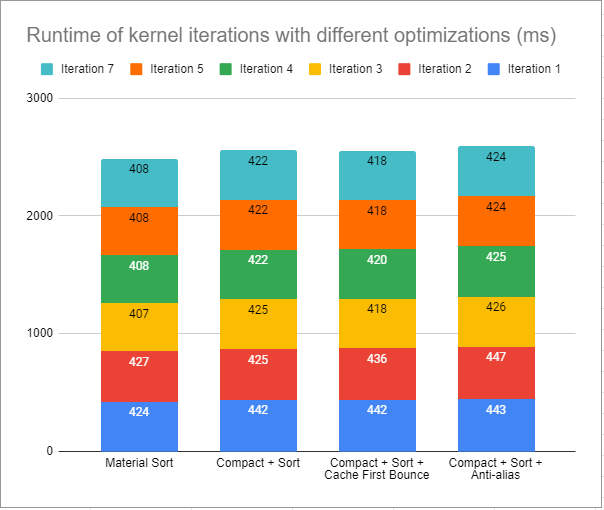
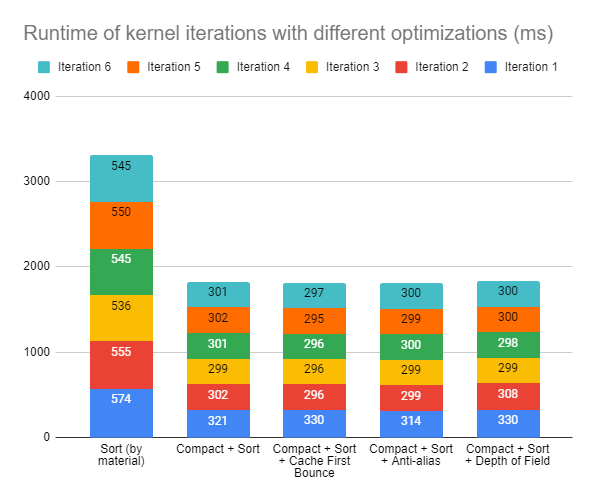
base requirements complete. updated readme.

diff --git a/src/intersections.h b/src/intersections.h
@@ -8,7 +8,7 @@
 #include "utilities.h"
 #include "cu.h"
 
-#define BOUNDING_BOX 0
+#define BOUNDING_BOX 1
 
 /* Handy-dandy hash function that provides seeds for random number generation. */
 __host__ __device__ inline unsigned int hash(unsigned int a)
@@ -48,7 +48,7 @@ __host__ __device__ float triangle_intersection_test(const Triangle tri, const R
 	if (!glm::intersectRayTriangle(r.origin, r.direction, tri.v[0], tri.v[1], tri.v[2], b_coord))
 		return -1.0f; /* no collision */
 	
-	*normal = glm::normalize(glm::cross(tri.v[2]-tri.v[0], tri.v[1]-tri.v[0]));
+	*normal = -glm::normalize(glm::cross(tri.v[2]-tri.v[0], tri.v[1]-tri.v[0]));
 	
 	*intersect = getPointOnRay(r, b_coord.z);
 	return b_coord.z;
@@ -74,27 +74,38 @@ __host__ __device__ float meshIntersectionTest(Geom mesh, Ray r,
 
 	glm::vec3 tmp_intersect;
 	glm::vec3 tmp_normal;
-	bool hit = false;
 
 
 #if BOUNDING_BOX
 	/* do box-intersection with bounding boxes */
-	printf("mincoords: (%f, %f, %f)\tmaxcoords: (%f, %f, %f)\n",
-		mesh.mincoords.x, mesh.mincoords.y, mesh.mincoords.z,
-		mesh.maxcoords.x, mesh.maxcoords.y, mesh.maxcoords.z);
 
 	glm::vec3 d = glm::normalize(r.direction);
-	auto max_of_mins = max(0.f,
-		(mesh.mincoords.x - r.origin.x) / d.x,
-		(mesh.mincoords.y - r.origin.y) / d.y,
-		(mesh.mincoords.z - r.origin.z) / d.z);
-	auto min_of_maxes = min(
-		(mesh.maxcoords.x - r.origin.x) / d.x,
-		(mesh.maxcoords.y - r.origin.y) / d.y,
-		(mesh.maxcoords.z - r.origin.z) / d.z);
+
+
+	glm::vec3 mincoords = glm::vec3(
+		d.x < 0 ? mesh.maxcoords.x : mesh.mincoords.x,
+		d.y < 0 ? mesh.maxcoords.y : mesh.mincoords.y,
+		d.z < 0 ? mesh.maxcoords.z : mesh.mincoords.z
+	);
+	glm::vec3 maxcoords = glm::vec3(
+		d.x >= 0 ? mesh.maxcoords.x : mesh.mincoords.x,
+		d.y >= 0 ? mesh.maxcoords.y : mesh.mincoords.y,
+		d.z >= 0 ? mesh.maxcoords.z : mesh.mincoords.z
+	);
+
+	float max_of_mins = max(0.f,
+		(mincoords.x - r.origin.x) / d.x,
+		(mincoords.y - r.origin.y) / d.y,
+		(mincoords.z - r.origin.z) / d.z);
+	float min_of_maxes = min(
+		(maxcoords.x - r.origin.x) / d.x,
+		(maxcoords.y - r.origin.y) / d.y,
+		(maxcoords.z - r.origin.z) / d.z);
 	
-	if (min_of_maxes < max_of_mins)
+	
+	if (min_of_maxes < max_of_mins) {
 		return -1.0f;
+	}
 #endif
 
 	for (size_t i = mesh.triangle_start; i < mesh.triangle_start + mesh.triangle_n; i++) {
@@ -104,19 +115,14 @@ __host__ __device__ float meshIntersectionTest(Geom mesh, Ray r,
 			t_min = t;
 			tri_intersect_point = tmp_intersect;
 			tri_normal = tmp_normal;
-			//printf("triangle %lld is closer\n", i);
-			hit = true;
 		}
 
 	}
 
-	if (t_min > 0.0f && hit) {
+	if (t_min < FLT_MAX) {
 		*intersectionPoint = tri_intersect_point;
-	//	*normal = glm::normalize(multiplyMV(mesh.invTranspose, glm::vec4(tri_normal, 1.0f)));
 		*normal = tri_normal;
 		*outside = glm::dot(r.direction, *normal) < 0;
-	//printf("normal: (%f, %f, %f) (%f, %f, %f) %d\n", normal->x, normal->y, normal->z, r.direction.x, r.direction.y, r.direction.z, int(*outside));
-	//printf("intersect = (%f, %f, %f)\n", intersectionPoint->x, intersectionPoint->y, intersectionPoint->z);
 		return t_min;
 	}
 

diff --git a/src/scene.cpp b/src/scene.cpp
@@ -72,30 +72,20 @@ int Scene::load_obj(string inputfile, glm::vec3 &mincoords, glm::vec3 &maxcoords
 
 	int size = tris.size();
 	
-	for (int i = 0; i < vertices.size(); i++) {
-		printf("vertices[%d]: %f\n", i, vertices[i]);
-	}
-
 	/* an obj file can contain multiple shapes; iterate over them: */
 	for (auto &s : shapes) {
 		size_t index_offset = 0;
 		auto &mesh = s.mesh;
 		auto &indices = mesh.indices;
 
-		printf("shape\n");
-
 		/* iterate over faces of the mesh (specifically the #vertices in each face */
 		for (unsigned char fv : mesh.num_face_vertices) {
-			printf("face %d\n", fv);
 			auto idx = indices[index_offset];
 
 
 			vec3 shape_first_point = { vertices[3 * idx.vertex_index + 0],
 				vertices[3 * idx.vertex_index + 1],
 				vertices[3 * idx.vertex_index + 2] };
-
-			printf("first point: (%f, %f, %f)\n", shape_first_point.x, shape_first_point.y, shape_first_point.z);
-			printf("idx: %d\n", idx.vertex_index);
 
 			/* iterate over vertices of each face */
 			for (unsigned char v = 1; v < fv; v += 2) {
@@ -111,33 +101,10 @@ int Scene::load_obj(string inputfile, glm::vec3 &mincoords, glm::vec3 &maxcoords
 						vertices[3 * idx2.vertex_index + 1],
 						vertices[3 * idx2.vertex_index + 2]),
 				});
-				printf("idx1: %d\n", idx1.vertex_index);
-				printf("idx2: %d\n", idx2.vertex_index);
-				printf("added triangle\n");
 			}
 			index_offset += fv;
 		}
 	}
-	//for (int i = size; i < tris.size(); i++) {
-	//	Triangle &tri = tris[i];
-	//	for (vec3 v : tri.v) {
-	//		mincoords.x = glm::min(mincoords.x, v.x);
-	//		mincoords.y = glm::min(mincoords.y, v.y);
-	//		mincoords.z = glm::min(mincoords.z, v.z);
-	//		maxcoords.x = glm::max(maxcoords.x, v.x);
-	//		maxcoords.y = glm::max(maxcoords.y, v.y);
-	//		maxcoords.z = glm::max(maxcoords.z, v.z);
-	//		printf("added (%f, %f, %f)\n", v.x, v.y, v.z);
-	//	}
-	//}
-	//for (int i = 0; i + 2 < vertices.size(); i += 3) { /* for bounding box */
-	//	mincoords.x = glm::min(mincoords.x, vertices[i]);
-	//	mincoords.y = glm::min(mincoords.y, vertices[i+1]);
-	//	mincoords.z = glm::min(mincoords.z, vertices[i+2]);
-	//	maxcoords.x = glm::max(maxcoords.x, vertices[i]);
-	//	maxcoords.y = glm::max(maxcoords.y, vertices[i+1]);
-	//	maxcoords.z = glm::max(maxcoords.z, vertices[i+2]);
-	//}
 	return tris.size() - size;
 }
 
@@ -276,7 +243,6 @@ int Scene::loadCamera()
 		} else if (tokens[0] == "LENS_RAD") {
 			camera.lens_radius = stof(tokens[1]);
 		}
-		printf("focus_len %f\trad %f\n", camera.focus_len, camera.lens_radius);
 
 		safe_getline(fp_in, line);
 	}

diff --git a/src/cu.h b/src/cu.h
@@ -47,7 +47,7 @@ __host__ __device__ T min(T v) {
 
 template <typename T, typename... U>
 __host__ __device__ T min(T v1, T v2, U ... vs) {
-	return max(v1 < v2 ? v1 : v2, vs...);
+	return min(v1 < v2 ? v1 : v2, vs...);
 }
 
 

diff --git a/README.md b/README.md
@@ -90,8 +90,7 @@ The difference is especially noticeable on the top edge of the ideal diffused su
 where the antialiased version is much smoother. It is also visible in the edges of the cornell box.
 
 There is a small performance penalty associated with stochastic sampled antialiasing, which is unsurprising as the
-sampling requires the generation of random numbers per pixel for each iteration. Specifically, with 10 iterations, the
-difference is 2219 milliseconds versus 2100 milliseconds without anti-aliasing (with material sort enabled)
+sampling requires the generation of random numbers per pixel for each iteration. Specifically, with 1000 iterations, the runtime is 39979 milliseconds without antialiasing versus 40006 milliseconds with anti-aliasing, a 0.07% increaase.
 
 Compared to a hypothetical CPU implementation, stochastic anti-aliasing would likely greatly benefit from being
 implemented on the GPU since there is clear pixel-level parallelism, where each pixel (with relative independence)
@@ -112,7 +111,7 @@ The focal length and lens radius can be dynamically changed by pressing **up-dow
 
 Similar to the anti-aliasing, depth-of-field also incurs a small performance penalty.
 Each randomly sampled pixel is mapped to a point on a disk (which requires the usage of
-the somewhat expensive `sin` and `cos` functions in CUDA). Overall, the runtime increases from 130ms for 10 iterations to 132 ms.
+the somewhat expensive `sin` and `cos` functions in CUDA). Overall, the runtime increases from 130ms for 10 iterations to 132 ms, a 1.5% increase in runtime.
 
 Similar to antialiasing, this is also a feature that will likely perform better on the GPU (in contrast to a
 hypothetical CPU implementation) as there is an obvious parallelization over each pixel as each pixel's operations are
@@ -133,10 +132,8 @@ triangles begin and the number of triangles it contains.
 For efficiency, the mesh also stores the minimum and maximum coordinates in 3-dimensions. Specifically, when iterating
 over the vertices of the faces, the smallest and largest encountered x, y, and z coordinates are stored which describe
 the box that bounds the mesh entirely. Then, ray collisions with the mesh are performed first by checking for
-intersections with the bounding box, and then by performing a triangle intersection test which every triangle in the
+intersections with the bounding box, and then by performing a triangle intersection test for every triangle in the
 mesh.
-
-Loading of OBJ files, triangle intersect, and rendering is complete. TODO: debug bounding boxes
 
 There is a very significant performance penalty associated with loading arbitary meshes into the scene. As the meshes
 are broken down into and represented as triangles; complex meshes introduce a huge number of triangles into the scene
@@ -145,6 +142,9 @@ and since we are naively checking every ray against every object for collisions,
 The bounding box method accelerates the feature by first checking the rays against a box that encapsulates the mesh,
 then only checking for triangles if the ray intersects the box, effectively eliminating a large portion (typically
 a strong majority) of the intersection checks.
+
+Specifically, rendering 10 iterations of the above Cornell scene with the teapot takes 24109 ms without bounding boxes
+and 18907 ms with bounding boxes, a 21.58% decrease.
 
 A hypothetical CPU implementation would not have significant advantages over the GPU implementation as we would still
 have to check every ray against every object (with or without accelerators like bounding boxes) but would lose the
@@ -160,16 +160,19 @@ performance as our current implementation, if the ray intersects the bounding bo
 in the mesh whereas a much smaller number can suffice.
 
 ## Performance Analysis
-(following recent bugfix, will update these timing shortly to include timings without material sort)
+#### Open Cornell Box
 ![cornell box runtimes](visuals/runtimes_cornell.png)
-
-The above chart is the performance measurements of the Cornell box with three spheres (a perfect diffuse, a perfect
-refract, and a blue mixed reflect-refract) whose image is shown under *Refraction*.
-
 ![cornell box runtimes 2](visuals/runtimes_cornell_2.png)
 
-The above chart shows the runtimes for the same cornell box but with a "front" wall added, the blue sphere removed (to
-maintain the same number of objects), and the camera moved forward into the now-closed box.
+The above chart is the performance measurements of the open Cornell box with three spheres (a perfect diffuse, a perfect
+refract, and a blue mixed reflect-refract) whose image is shown under *Refraction*.
+
+#### Closed Cornell Box
+![closed cornell box](visuals/cornell_closed.png)
+![cornell box runtimes 3](visuals/runtimes_cornell_3.png)
+![cornell box runtimes 4](visuals/runtimes_cornell_4.png)
+
+The above chart shows the runtimes for the same cornell box but with a "front" wall added, and the camera moved forward into the now-closed box.
 
 ### Comparison of open and closed scenes
 For closed scenes, unsurprisingly, stream compaction does not provide a performance benefit as the rays do not
@@ -180,38 +183,35 @@ change in results.
 ### Stream Comparison in Single Iteration
 ![compact performance](visuals/compact_perf.png)
 
-Stream compaction results in a clear decrease in the time elapsed per depth-level in an iteration, especially as the
-depth increases. For the illustrated data, we begin with 600000 paths exactly, which takes about 60ms for depth-level 1. However, with stream compaction, we more than halve the runtime by the fourth depth-level and reach 14ms by depth 8.
+Stream compaction results in a clear decrease in the time elapsed per depth-level in an iteration for open scenes,
+especially as the depth increases. For the illustrated data, we begin with 600000 paths exactly, which takes about 60ms
+for depth-level 1. However, with stream compaction, we more than halve the runtime by the fourth depth-level and reach
+14ms by depth 8.
 As such, especially for renders with large depth-limits, stream compacting has a major runtime improvement as we
-progress through each iteration. Note that these benefits only exist if rays terminate (otherwise, like the above
-case with the closed scene, we waste time by running the stream compact algorithm).
-
+progress through each iteration. Note that these benefits only exist if rays terminate. Otherwise, as shown in the
+performance plots with the closed scene, we waste time by running the stream compact algorithm.
 
 ### Material sorting
 Sorting the rays and path-segments by material so that those with the same material are contiguous in memory
-results in a significant performance decrease. The potential benefit from material sort was due to an expected
+results in a significant performance decrease as shown in the above graphs.
+The potential benefit from material sort is due to an expected
 reduction in divergence: The shading kernel's behavior for each ray depends on its material and the kernel branches on the properties of the material. Therefore, by having rays and path segments of the same material grouped together,
 we increase the chances of a warp having a more homogenous makeup of material, resulting in a greater chance of
 executing the same intersect/shading routines and thus reducing divergence.
 
 However, in the Cornell box scenes that were tested the material sort resulted in a net decrease in performance, most
-likely because, as there is only a few materials in the scene, consecutive rays are more likely to be shading the
-same material and the decrease in divergence given by the sorting does not outweigh the time spent sorting the data
+likely because, as there are only a few materials in the scene, consecutive rays are more likely to be shading the
+same material and the decrease from divergence given by the sorting does not outweigh the time spent sorting the data
 by material. As a future performance inquiry, a scene with a very large number of materials could be benchmarked with
-and without material sort where the sorting might provide a net benefit.
+and without material sort to see whether the sorting might provide a net benefit.
 
 ### Caching first bounces
 The above charts effectively show the change in performance for different max ray depths when the first bounce is
-cached. That is, by observing the change in runtime of the subsequent kernel calls and comparing across an open versus a closed cornell box, we can analyze the performance benefit of the caching. There is a measurable improvement in
-performance in both the open and the closed box case (almost every iteration except the first one is faster than the
-corresponding iterations with other optimizations) but the improvement is quite small. We might expect there to be a
-more significant improvement with greater depth limits but in either case, the difference is small to the point that
-even if the rays bounce for a greater number of iterations (as in the closed box case), the benefits are small.
-Furthermore, enabling this optimization prevents us from implementing various visual improvements like stochastic
-anti-aliasing and depth-of-field lens.
+cached. That is, by observing the change in runtime of the subsequent kernel calls and comparing across an open versus a closed cornell box, we can analyze the performance benefit of the caching.
 
-
-
+There is a measurable improvement in performance in both the open and the closed box case consistently in every iteration,  except the first one where we do the caching. However, the improvement is not that large (altough we can expect there to be a more significant improvement with smaller depth limits).
+Furthermore, enabling this optimization prevents us from implementing various visual improvements using random number
+generation like stochastic anti-aliasing and depth-of-field lens.
 
 
 ## Bloopers
@@ -225,8 +225,11 @@ anti-aliasing and depth-of-field lens.
 ![buggy refract 2](visuals/incorrect_refract2.png)
 ![buggy refract 2](visuals/incorrect_refract3.png)
 
-#### Incorrect reflection implementation
+#### Incorrect random sampling
 ![buggy reflect](visuals/buggy_reflect.png)
+
+#### Buggy mesh rendering
+![buggy teapot](visuals/faulty_teapot.png)
 
 ## Acknowledgments and External libraries
 * Added [tiny object loader](https://github.com/tinyobjloader/tinyobjloader/).
